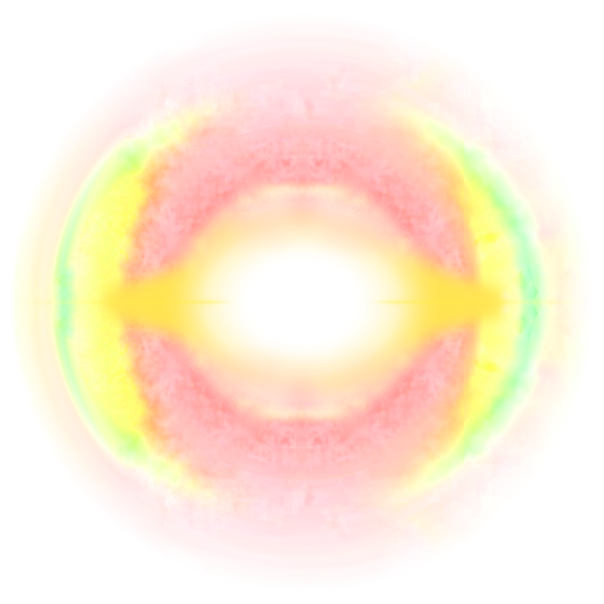
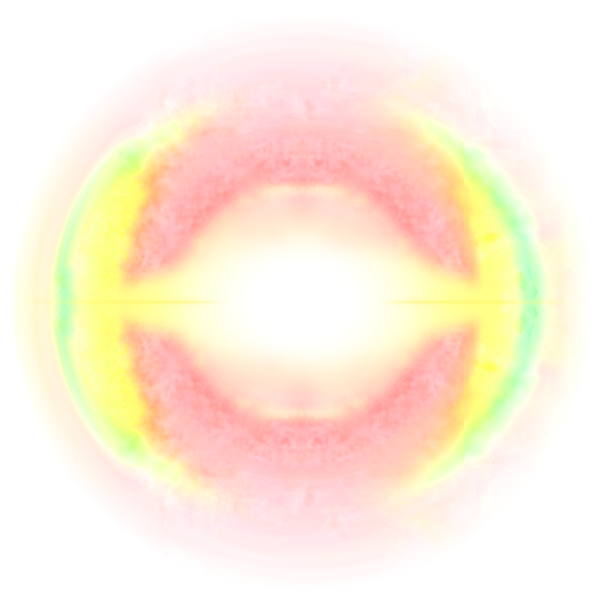
Efekt 10 kare 2: kenar sarısı en fazla parantez sarısı (#FCFD8A), kademeli geçiş
Claude-Session: https://claude.ai/code/session_01E9c1WiJsMc9gXSJZ9D4z6g

Changed region(s): [[0.5364, 0.3874, 0.8344, 0.6556], [0.149, 0.3576, 0.4172, 0.6258]]

diff --git a/arayuz/araclar/efekt10/kare_02.py b/arayuz/araclar/efekt10/kare_02.py
@@ -39,10 +39,11 @@ G=np.stack([ndimage.map_coordinates(L[...,c],[sy,sx],order=1) for c in range(3)]
 w=np.clip((1.45-s_)/0.75,0,1); w=w*w*(3-2*w); w=ndimage.gaussian_filter(w,6.0)[...,None]      # genis, yumusak kenar
 G=np.stack([ndimage.gaussian_filter(G[...,c],2.0) for c in range(3)],-1)
 # renk: yalniz ortadaki cekirdek titanyum beyaz; kenarlara ve bant uclarina dogru altin sariya doner (paranteze dogru)
-ALTIN=np.array([0xFB,0xE0,0x4E],np.float32)/255; ACIK=np.array([0xFF,0xF6,0xC6],np.float32)/255
+ALTIN=np.array([0xFC,0xFD,0x8A],np.float32)/255; ACIK=np.array([0xFE,0xFE,0xD2],np.float32)/255   # en koyu sari = parantezin sarisi (olculen #FCFD8A)
 q=np.hypot(dx/58.0,dy/44.0)                                          # beyaz cekirdek (~116x88)
-ys=np.clip((q-0.85)/1.6,0,1); ys=ys*ys*(3-2*ys)
-ys=np.maximum(ys,np.clip((ax-EA*0.55)/(BU-EA*0.55),0,1)**0.8)          # bant uclarina dogru tam sari
+ys=np.clip((q-0.7)/2.4,0,1)                                         # kademeli: cekirdekten disari uzun, dogrusal gecis
+ys=np.maximum(ys,np.clip((ax-EA*0.4)/(BU-EA*0.4),0,1))              # bant uclarina dogru parantez sarisina kademeli
+ys=ys*ys*(3-2*ys)
 renk=np.where(ys[...,None]<0.5, np.ones(3,np.float32)*(1-2*ys[...,None])+ACIK*2*ys[...,None], ACIK*(2-2*ys[...,None])+ALTIN*(2*ys[...,None]-1))
 G=renk
 # kare_01'in yuvarlak beyaz cekirdegi kalkar (cekirdek sikisti): r<100 seftali/somon halka rengiyle iceri dogru doldurulur
